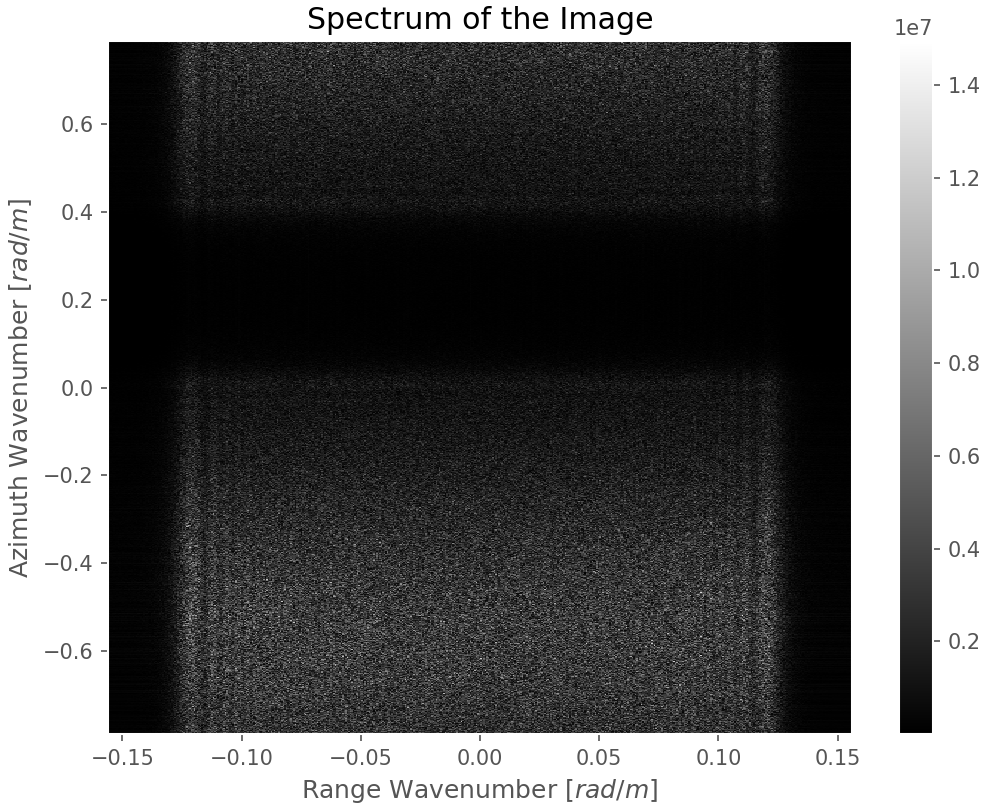
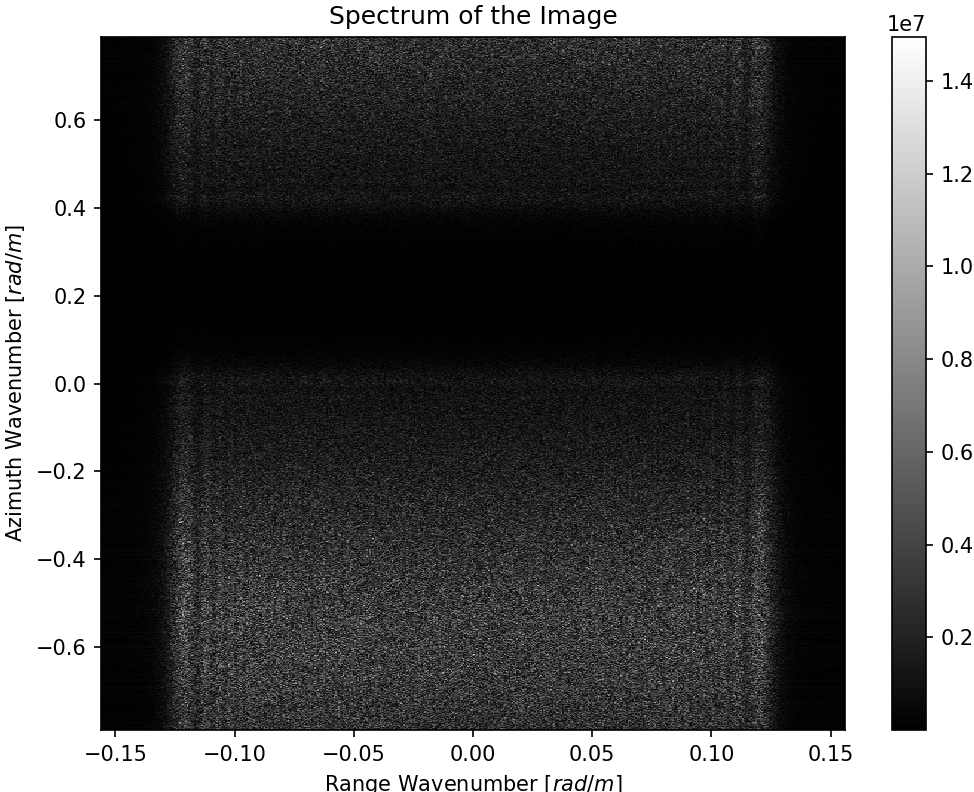
Refactor task_3B function to update spectral visualization

Changed region(s): [[0.0, 0.0, 1.0, 1.0], [0.8932, 0.0, 0.9548, 0.0606], [0.9548, 0.0909, 1.0, 0.1212]]

diff --git a/test0.1.py b/test0.1.py
@@ -4,6 +4,9 @@ from scipy.signal import convolve2d
 import matplotlib.colors as mcolors
 from matplotlib.colorbar import ColorbarBase
 
+
+
+
 # Paths to data and header file
 data_file = r"C:\Users\trym7\OneDrive - UiT Office 365\skole\FYS-3001\Home exam active\image.dat"
 header_file = r"C:\Users\trym7\OneDrive - UiT Office 365\skole\FYS-3001\Home exam active\image.txt"
@@ -19,34 +22,185 @@ V = 6716.7298 # Velocity in m/s (geo.groundvel)
 theta = np.deg2rad(22.779148) # Convert to radians (geo.incangle)
 c = 3e8 # Speed of light in m/s
 
+
 # Read the image data as vector and reshape to image 
 dat = np.fromfile(data_file, dtype=np.csingle)
 img = dat.reshape(Ny, Nx)
 
 
-img_mean_intensity = np.mean(img)
-img_norm = img / img_mean_intensity
+""" ----------------------------------- Read Plot Data ----------------------------------- """ 
+def task_0():
+    # plot SLC image
+    plt.pcolormesh(np.abs(img), cmap='gray')
+    plt.colorbar()
+    plt.xlabel("Range (pixels)")
+    plt.ylabel("Azimuth (pixels)")
+    plt.title("SLC image")
+    plt.show()
+    
 
-fft_img = np.fft.fft2(img_norm)
-fft_img_shifted = np.fft.fftshift(fft_img)
-img_spec = np.abs(fft_img_shifted)
+""" ---------------------------------- A. Image Statistics ----------------------------------- """
+
+
+# Real and imaginary part of the image
+img_real = np.real(img)
+img_imag = np.imag(img)
+
+img_real_flat = img_real.flatten()
+img_imag_flat = img_imag.flatten()
+
+
+real_hist, real_bins = np.histogram(img_real_flat, bins=6000)
+imag_hist, imag_bins = np.histogram(img_imag_flat, bins=6000)
+
+
+def task_1A():
+    # Plot histogram of real and imaginary part of the image
+    plt.style.use("ggplot")
+    
+    figure, axes = plt.subplots(1, 2, figsize=(12, 6), sharey=True) # maybe us 65535 as bins for 16 bit images
+    axes[0].hist(img_real_flat, bins=6000)
+    axes[0].set_title("Real part")
+    axes[0].set_xlabel("Intensity")
+    axes[0].set_ylabel("Frequency")
+    axes[0].grid(True)
+    
+    axes[1].hist(img_imag_flat, bins=6000, color="teal")
+    axes[1].set_title("Imaginary part")
+    axes[1].set_xlabel("Intensity")
+    #axes[1].set_ylabel("Frequency")
+    axes[1].grid(True)
+    
+    plt.tight_layout()
+    plt.show()
+    
+    print("max real: ", np.max(img_real_flat))
+    print("min real: ", np.min(img_real_flat))
+    print("max imag: ", np.max(img_imag_flat))
+    print("min imag: ", np.min(img_imag_flat))
+    print("max y real value", np.max(real_hist))
+    print("max y imag value", np.max(imag_hist))
+
+slc_mag = np.abs(img_real + 1j*img_imag)
+def task_2A():
+    plt.style.use("ggplot")
+    intensity_hist, intensity_bins = np.histogram(slc_mag.flatten(), bins=6000)
+    
+    plt.hist(slc_mag.flatten(), bins=6000)
+    plt.title("Intensity histogram")
+    plt.xlabel("Intensity")
+    plt.ylabel("Frequency")
+    #plt.grid(True)
+    plt.show()
+    
+    normalized_variance = np.var(slc_mag) / np.mean(slc_mag)
+    print("Normalized variance: ", normalized_variance)
+    
+    
+def task_3A():
+    plt.style.use("ggplot")
+    kernel = np.ones((5, 5)) / 25  # Normalized kernel for averaging
+
+    # Perform 2D convolution to apply the smoothing operation
+    smoothed_intensity = convolve2d(slc_mag, kernel, mode='same')
+
+    # Compute histogram of the smoothed intensity image
+    smoothed_intensity_hist, smoothed_intensity_bins = np.histogram(smoothed_intensity.flatten(), bins=100)
+
+    # Plot histogram of the smoothed intensity image
+    plt.figure(figsize=(8, 6))
+    plt.hist(smoothed_intensity.flatten(), bins=6000)
+    plt.xlabel('Intensity')
+    plt.ylabel('Frequency')
+    plt.title('Histogram of Smoothed Intensity Image')
+    plt.show()
+
+    # Compute normalized variance of the smoothed intensity image
+    normalized_variance_smoothed = np.var(smoothed_intensity) / np.mean(smoothed_intensity)
+
+    print("Normalized variance of the smoothed intensity image:", normalized_variance_smoothed)
+    
+    
+""" ---------------------------------- B. Look extraction and Fourier Spectral Estimation ----------------------------------- """
+
+img_int = np.mean(img)
+img_normalized = img / img_int
+
+
+img_fft = np.fft.fft2(img_normalized)
+img_fft_shifted = np.fft.fftshift(img_fft)
+img_spec = np.abs(img_fft_shifted)
+
 
 dx = c / (2*f_sf*np.sin(theta)) # Resolution or pixel size in range (x)
 dy = V / f_prf # Resolution or pixel size in azimuth (y)
 
-d_kx = (2*np.pi) / (Nx*dx)
-d_ky = (2*np.pi) / (Ny*dy)
-print(d_kx, d_ky)
+delta_kx = (2*np.pi) / (Nx*dx) # Resolution in kx
+delta_ky = (2*np.pi) / (Ny*dy) # Resolution in ky
 
 d_kx_max = np.pi / dx
 d_ky_max = np.pi / dy
-print(d_kx_max, d_ky_max)
 
-Kx = np.linspace(-d_kx_max, d_kx_max, 501)
-Ky = np.linspace(-d_ky_max, d_ky_max, 1759)
+kx = np.linspace(-d_kx_max, d_kx_max, Nx)
+ky = np.linspace(-d_ky_max, d_ky_max, Ny) 
 
-plt.pcolormesh(Kx, Ky, img_spec, cmap='gray')
-#plt.xlim(-0.4, 0.4)
-#plt.ylim(-0.6, 0.7)
-plt.colorbar()
-plt.show()
+def task_1B():
+    """ 
+    Plots the magnitude spectrum of the image in the Fourier/Freq domain.
+    ~ Complex valued 2D spectra
+    """
+    plt.style.use("ggplot")
+    plt.figure(figsize=(8, 6))
+    plt.pcolor(kx, ky, img_spec, cmap='gray')
+    plt.colorbar()
+    plt.xlabel(r'Range Wavenumber $[rad/m]$')
+    plt.ylabel(r'Azimuth Wavenumber $[rad/m]$')
+    plt.title('Spectrum of the Image')
+    plt.show()
+    
+
+spec_profile_azimuth = np.mean(np.abs(img_fft_shifted), axis=0)
+def task_2B():
+    """ 
+    Plots the azimuth profile of the spectral profile.
+    ~ Azimuth Spectral Profile
+    """
+    plt.style.use("ggplot")
+    
+    freqs = np.fft.fftfreq(Ny, d=1/f_prf)
+    freqs = np.fft.fftshift(freqs)
+    
+    spec_profile_azimuth_normalized = spec_profile_azimuth / spec_profile_azimuth.max()
+    
+    plt.figure(figsize=(8, 6))
+    plt.plot(freqs, spec_profile_azimuth_normalized)
+    plt.xlabel(r'Azimuth Frequency $[Hz]$')
+    plt.ylabel(r'Intensity $[Norm]$')
+    plt.title('Azimuth Fourier Domain')
+    plt.show()
+    
+    is_symmetric = np.allclose(spec_profile_azimuth, spec_profile_azimuth[::-1], atol=1e-10)
+    if is_symmetric:
+        print("The spectral profile is symmetric around the zero frequency.")
+    else:
+        print("----|The spectral profile is shifted|----")
+        #print it is shifted by the amount of pixels
+        print("Shifted by: ", np.argmax(spec_profile_azimuth))
+
+#spec_profile = np.mean(img_fft_shifted, axis=0)
+max_index = np.argmax(spec_profile_azimuth)
+azimuth_shift = len(spec_profile_azimuth) // 2 
+
+shifted_img_fft = np.roll(img_fft_shifted, -azimuth_shift, axis=0)
+
+def task_3B():
+    
+    plt.pcolormesh(kx, ky, np.abs(shifted_img_fft), cmap='gray')
+    plt.colorbar()
+    plt.xlabel("Range (pixels)")
+    plt.ylabel("Azimuth (pixels)")
+    plt.title("Shifted Image")
+    plt.show()
+
+#task_2B()
+task_3B()

diff --git a/Home exam active.py b/Home exam active.py
@@ -149,7 +149,7 @@ def task_1B():
     Plots the magnitude spectrum of the image in the Fourier/Freq domain.
     ~ Complex valued 2D spectra
     """
-    plt.style.use("ggplot")
+    #plt.style.use("ggplot")
     plt.figure(figsize=(8, 6))
     plt.pcolor(kx, ky, img_spec, cmap='gray')
     plt.colorbar()
@@ -183,55 +183,57 @@ def task_2B():
         print("The spectral profile is symmetric around the zero frequency.")
     else:
         print("----|The spectral profile is shifted|----")
+        # find the amount of shift
+        print("Shifted by: ", np.argmax(spec_profile_azimuth) - Ny // 2)
 
-index_max = np.argmax(spec_profile_azimuth)
-azimuth_shift_pixels = index_max - Ny // 2
-shifted_fourier_transform_shifted_azimuth = np.roll(img_fft_shifted, shift=azimuth_shift_pixels, axis=1)
+
+azimuth_shift = len(spec_profile_azimuth) // 2
+
+shifted_img_fft = np.roll(img_fft_shifted, shift=-azimuth_shift, axis=0)
 def task_3B():
-    print("Azimuth shift in pixels:", azimuth_shift_pixels)
+    print("Azimuth shift in pixels:", shifted_img_fft)
     
     plt.figure(figsize=(8, 6))
-    plt.pcolormesh(kx, ky, np.abs(shifted_fourier_transform_shifted_azimuth), cmap='gray')
+    plt.pcolormesh(kx, ky, np.abs(shifted_img_fft), cmap='gray')
     plt.colorbar()
-    #plt.xlim(-0.08, 0.08)
-    #plt.ylim(-0.08, 0.08)
     plt.xlabel(r'Range Wavenumber $[rad/m]$')
     plt.ylabel(r'Azimuth Wavenumber $[rad/m]$')
-    plt.title('Magnitude Spectrum of the Image with Azimuth Shift')
+    plt.title('Spectrum of the Image with Azimuth Shift')
     plt.show()
     
-Ny = shifted_fourier_transform_shifted_azimuth.shape[1]
-    
+Ny = shifted_img_fft.shape[1]
+print(shifted_img_fft.shape)
 num_parts = 3
 part_size = Ny // num_parts
 intensity_images = []
 
 for i in range(num_parts):
     start_idx = i*part_size
-    end_idx = (i +1) * part_size
-    complex_look = shifted_fourier_transform_shifted_azimuth[:, start_idx:end_idx]
+    end_idx = (i+1) * part_size
+    complex_look = shifted_img_fft[:, start_idx:end_idx]
     
-    complex_image  = np.fft.ifftshift(complex_look, axes=1)
+    complex_image  = np.fft.ifftshift(complex_look, axes=0)
     spatial_image = np.fft.ifft2(complex_image)
     
     intensity_image = np.abs(spatial_image)**2
     intensity_images.append(intensity_image)    
 def task_4B():
-      
+        
     plt.figure(figsize=(8, 6))
     for i, intensity_image in enumerate(intensity_images):
         plt.subplot(1, num_parts, i+1)
         plt.pcolormesh(intensity_image, cmap='gray')
         plt.title(f'Look {i+1}')
+        plt.colorbar()
         plt.axis('off')
     
-    # Create a new axes at the bottom of current figure, with 10% height and 100% width relative to the figure
+    """ # Create a new axes at the bottom of current figure, with 10% height and 100% width relative to the figure
     colorbar_axes = plt.gcf().add_axes([0.138, 0.06, 0.75, 0.04])
 
     # Create a Normalize instance to normalize data to [0-1] range
     norm = mcolors.Normalize(vmin=np.min(intensity_images), vmax=np.max(intensity_images))
     # Create a ColorbarBase instance with the 'gray' colormap
-    colorbar = ColorbarBase(colorbar_axes, cmap='gray', norm=norm, orientation='horizontal')
+    colorbar = ColorbarBase(colorbar_axes, cmap='gray', norm=norm, orientation='horizontal') """
     plt.show()
     
 def task_5B():
@@ -345,8 +347,8 @@ if __name__ == "__main__":
 # ______B. Look extraction and Fourier Spectral Estimation______ #
     #task_1B()
     #task_2B()
-    task_3B()
-    #task_4B()
+    #task_3B()
+    task_4B()
     #task_5B()
     
 # ______C. Analysis of 2D Spectra______ #
